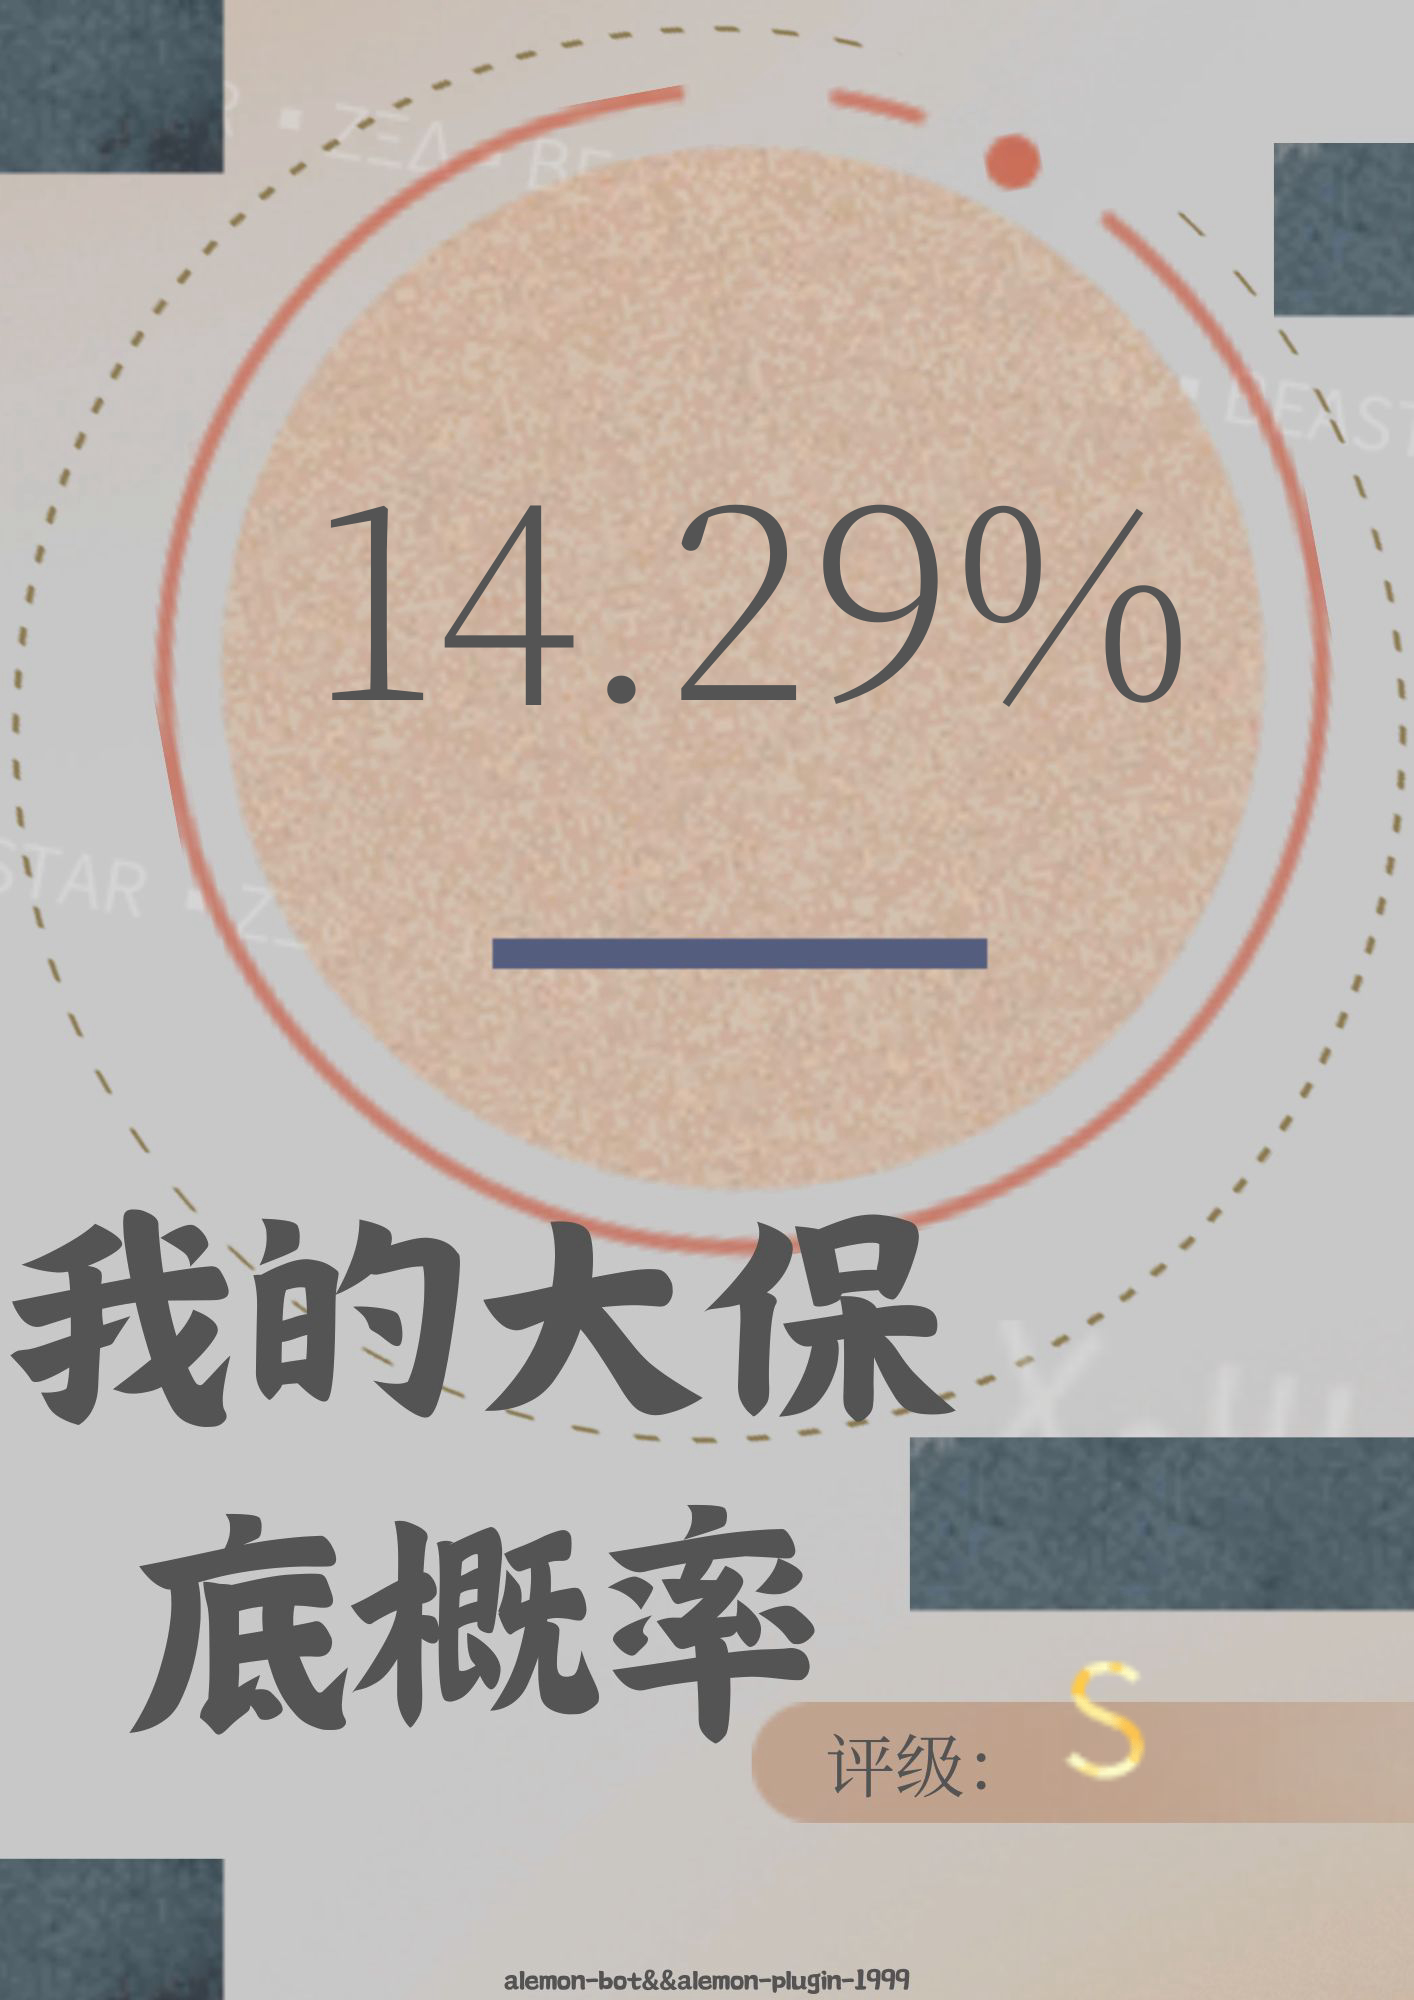
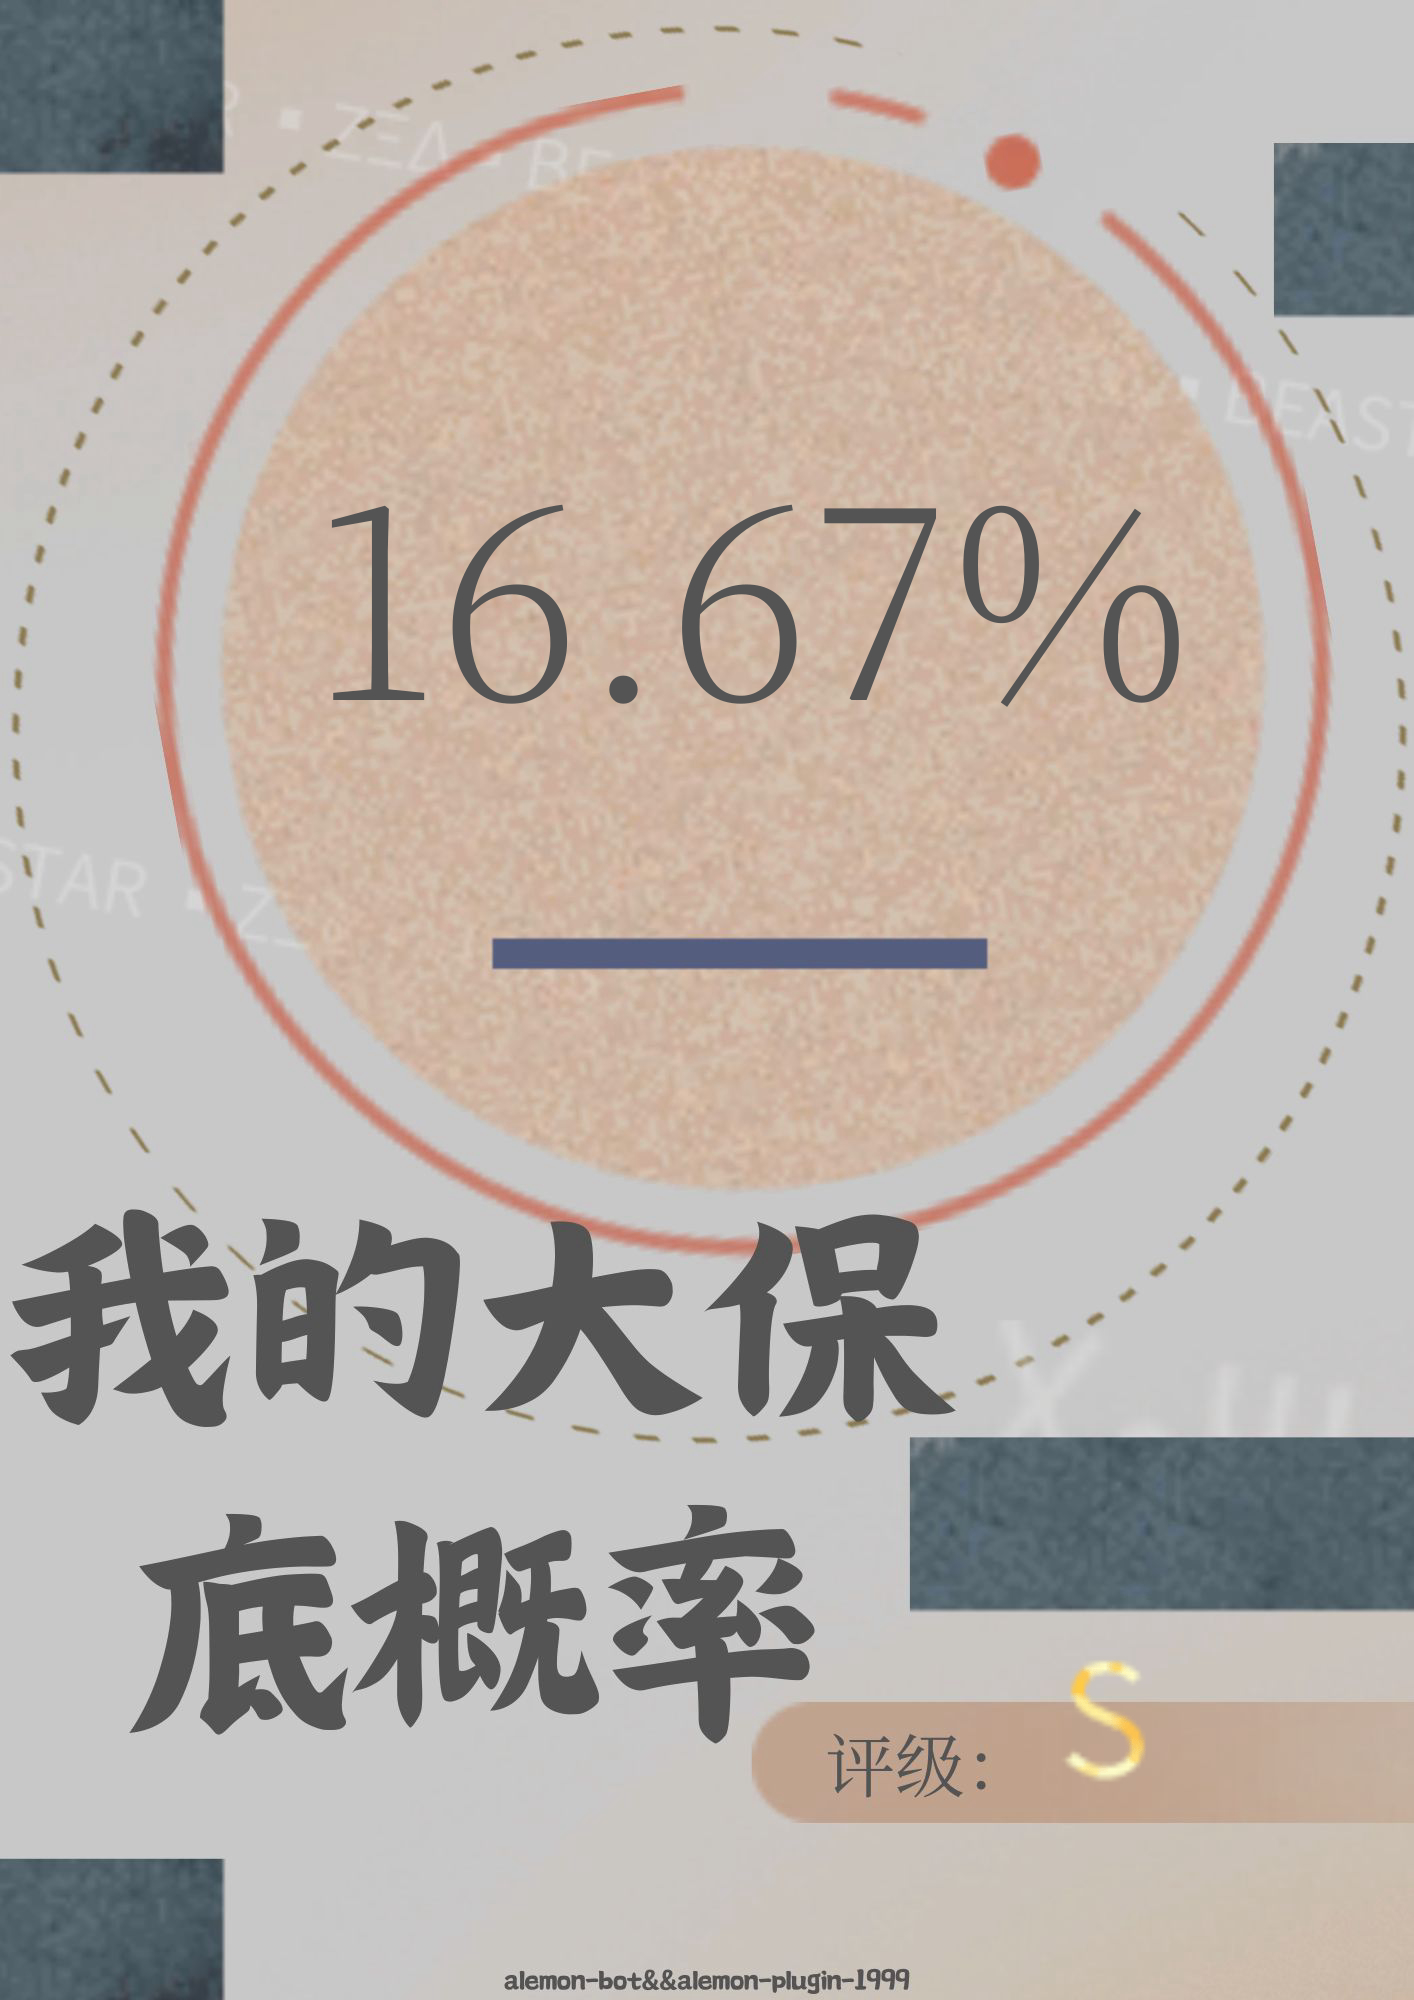
优化

diff --git a/apps/抽卡分析/大保底概率.ts b/apps/抽卡分析/大保底概率.ts
@@ -99,13 +99,54 @@ export class fenxichouka1 extends plugin {
           sixStarPullsOverall += sixStarPullsInPool
           misfitPullsOverall += misfitPullsInPool
         }
-      })
 
-      // 输出总概率
-      const overallSixStarProbability = (sixStarPullsOverall / totalPullsOverall) * 100
-      const overallMisfitProbability = (misfitPullsOverall / sixStarPullsOverall) * 100
+        // 歪卡数量和不歪卡数量的初始化
+        let misfitCount = 0
+        let notMisfitCount = 0
 
-      /*
+        // 判断首尾六星是否歪了
+        const firstPull = file2Data[0].results[0]
+        const lastPull = file2Data[file2Data.length - 1].results[0]
+        const specialSixStar = 0
+        const isFirstMisfit = firstPull.includes('6星') && !firstPull.includes(specialSixStar)
+        const isLastMisfit = lastPull.includes('6星') && !lastPull.includes(specialSixStar)
+
+        // 统计歪卡数量和不歪卡数量
+        Object.keys(poolStats).forEach(poolName => {
+          const { sixStarPulls, misfitPulls } = poolStats[poolName]
+          misfitCount += misfitPulls
+          notMisfitCount += sixStarPulls - misfitPulls
+        })
+        // 根据不同情况计算歪卡的概率
+        let overallMisfitProbability = 0
+        if (isFirstMisfit && isLastMisfit) {
+          if (misfitCount <= notMisfitCount) {
+            overallMisfitProbability = misfitCount / (sixStarPullsOverall - misfitCount + 1)
+          } else {
+            overallMisfitProbability = 1
+          }
+        } else if (isFirstMisfit && !isLastMisfit) {
+          if (misfitCount < notMisfitCount) {
+            overallMisfitProbability = misfitCount / (sixStarPullsOverall - misfitCount)
+          } else {
+            overallMisfitProbability = 1
+          }
+        } else if (!isFirstMisfit && isLastMisfit) {
+          if (misfitCount < notMisfitCount) {
+            overallMisfitProbability = misfitCount / (sixStarPullsOverall - misfitCount)
+          }
+        } else {
+          if (misfitCount < notMisfitCount || misfitCount > notMisfitCount) {
+            overallMisfitProbability = misfitCount / (sixStarPullsOverall - misfitCount)
+          } else {
+            overallMisfitProbability = 1
+          }
+        }
+
+        // 歪卡的概率
+        overallMisfitProbability *= 100
+
+        /*
 
 
 大保底概率图片合成
@@ -113,147 +154,148 @@ export class fenxichouka1 extends plugin {
 
       */
 
-      async function generateTextImage(text, ttffontPath, width, height) {
-        const canvas = createCanvas(width, height)
-        const ctx = canvas.getContext('2d')
+        async function generateTextImage(text, ttffontPath, width, height) {
+          const canvas = createCanvas(width, height)
+          const ctx = canvas.getContext('2d')
 
-        // 注册外部字体
-        registerFont(ttffontPath, { family: 'MyFont' })
+          // 注册外部字体
+          registerFont(ttffontPath, { family: 'MyFont' })
 
-        // 绘制文字
-        ctx.font = '264.67px MyFont'
-        ctx.fillStyle = '#545454'
-        ctx.textAlign = 'center' // 居中对齐文本
-        ctx.fillText(text, width / 2, height / 2)
+          // 绘制文字
+          ctx.font = '264.67px MyFont'
+          ctx.fillStyle = '#545454'
+          ctx.textAlign = 'center' // 居中对齐文本
+          ctx.fillText(text, width / 2, height / 2)
 
-        // 将Canvas生成的Buffer转换为Node.js的Buffer类型
-        const buffer = canvas.toBuffer()
+          // 将Canvas生成的Buffer转换为Node.js的Buffer类型
+          const buffer = canvas.toBuffer()
 
-        return buffer
-      }
-
-      async function selectGradeImage(overallMisfitProbability) {
-        // 映射表，将大保底概率范围与对应的图片路径进行关联
-        const gradeImageMap = {
-          'SS': 'SS.png',
-          'S': 'S.png',
-          'A+': 'A+.png',
-          'A': 'A.png',
-          'B+': 'B+.png',
-          'B': 'B.png',
-          'C+': 'C+.png',
-          'C': 'C.png'
+          return buffer
         }
 
-        let gradeImage
-        if (overallMisfitProbability >= 0 && overallMisfitProbability < 10) {
-          gradeImage = gradeImageMap['SS']
-        } else if (overallMisfitProbability >= 10 && overallMisfitProbability < 20) {
-          gradeImage = gradeImageMap['S']
-        } else if (overallMisfitProbability >= 20 && overallMisfitProbability < 30) {
-          gradeImage = gradeImageMap['A+']
-        } else if (overallMisfitProbability >= 30 && overallMisfitProbability < 40) {
-          gradeImage = gradeImageMap['A']
-        } else if (overallMisfitProbability >= 40 && overallMisfitProbability < 50) {
-          gradeImage = gradeImageMap['B+']
-        } else if (overallMisfitProbability >= 50 && overallMisfitProbability < 60) {
-          gradeImage = gradeImageMap['B']
-        } else if (overallMisfitProbability >= 60 && overallMisfitProbability < 70) {
-          gradeImage = gradeImageMap['C+']
-        } else if (overallMisfitProbability >= 70 && overallMisfitProbability < 100) {
-          gradeImage = gradeImageMap['C']
-        } else {
-          // 默认情况，当大保底概率超出映射表的范围时，默认为C.png
-          gradeImage = gradeImageMap['C']
-        }
-        return gradeImage
-      }
+        async function selectGradeImage(overallMisfitProbability) {
+          // 映射表，将大保底概率范围与对应的图片路径进行关联
+          const gradeImageMap = {
+            'SS': 'SS.png',
+            'S': 'S.png',
+            'A+': 'A+.png',
+            'A': 'A.png',
+            'B+': 'B+.png',
+            'B': 'B.png',
+            'C+': 'C+.png',
+            'C': 'C.png'
+          }
 
-      async function addTextAndSpecialImagesToBackground(
-        text,
-        backgroundImagePath,
-        fontPath,
-        outputImagePath
-      ) {
-        try {
-          // 使用 Jimp 读取背景图片
-          const backgroundImage = await jimp.read(backgroundImagePath)
-          // 根据大保底概率选择合适的图片路径
-          const gradeImageFileName = await selectGradeImage(overallMisfitProbability)
-          const gradeImagePath = path.join(
+          let gradeImage
+          if (overallMisfitProbability >= 0 && overallMisfitProbability < 10) {
+            gradeImage = gradeImageMap['SS']
+          } else if (overallMisfitProbability >= 10 && overallMisfitProbability < 20) {
+            gradeImage = gradeImageMap['S']
+          } else if (overallMisfitProbability >= 20 && overallMisfitProbability < 30) {
+            gradeImage = gradeImageMap['A+']
+          } else if (overallMisfitProbability >= 30 && overallMisfitProbability < 40) {
+            gradeImage = gradeImageMap['A']
+          } else if (overallMisfitProbability >= 40 && overallMisfitProbability < 50) {
+            gradeImage = gradeImageMap['B+']
+          } else if (overallMisfitProbability >= 50 && overallMisfitProbability < 60) {
+            gradeImage = gradeImageMap['B']
+          } else if (overallMisfitProbability >= 60 && overallMisfitProbability < 70) {
+            gradeImage = gradeImageMap['C+']
+          } else if (overallMisfitProbability >= 70 && overallMisfitProbability < 100) {
+            gradeImage = gradeImageMap['C']
+          } else {
+            // 默认情况，当大保底概率超出映射表的范围时，默认为C.png
+            gradeImage = gradeImageMap['C']
+          }
+          return gradeImage
+        }
+
+        async function addTextAndSpecialImagesToBackground(
+          text,
+          backgroundImagePath,
+          fontPath,
+          outputImagePath
+        ) {
+          try {
+            // 使用 Jimp 读取背景图片
+            const backgroundImage = await jimp.read(backgroundImagePath)
+            // 根据大保底概率选择合适的图片路径
+            const gradeImageFileName = await selectGradeImage(overallMisfitProbability)
+            const gradeImagePath = path.join(
+              `${process
+                .cwd()
+                .replace(
+                  /\\/g,
+                  '/'
+                )}/plugins/alemon-plugin-1999/resources/assets/img/抽卡分析/大保底/评级`,
+              gradeImageFileName
+            )
+
+            // 使用 Jimp 读取评级图片
+            const gradeImage = await jimp.read(gradeImagePath)
+
+            // 设置评级图片的合成位置
+            const gradeImageX = 966.2 // 替换为评级图片在背景图片上的 X 坐标
+            const gradeImageY = 1583.7 // 替换为评级图片在背景图片上的 Y 坐标
+
+            // 将评级图片合成在背景图片上
+            backgroundImage.composite(gradeImage, gradeImageX, gradeImageY)
+
+            // 生成包含文字的图片
+            const textImageBuffer = await generateTextImage(text, ttffontPath, 1069, 400)
+
+            // 使用 Jimp 读取文字图片
+            const textImage = await jimp.read(textImageBuffer)
+
+            // 设置文字图片的合成位置
+            const textImageX = 217 // 替换为文字图片在背景图片上的 X 坐标
+            const textImageY = 500 // 替换为文字图片在背景图片上的 Y 坐标
+
+            // 将文字图片合成在背景图片上
+            backgroundImage.composite(textImage, textImageX, textImageY)
+
+            // 保存合成后的图片
+            await backgroundImage.writeAsync(outputImagePath)
+            console.log('图片合成成功！')
+          } catch (error) {
+            console.error('图片合成失败：', error)
+          }
+          e.sendImage(
             `${process
               .cwd()
               .replace(
                 /\\/g,
                 '/'
-              )}/plugins/alemon-plugin-1999/resources/assets/img/抽卡分析/大保底/评级`,
-            gradeImageFileName
+              )}/plugins/alemon-plugin-1999/resources/assets/img/抽卡分析/大保底/baodi.jpg`
           )
-
-          // 使用 Jimp 读取评级图片
-          const gradeImage = await jimp.read(gradeImagePath)
-
-          // 设置评级图片的合成位置
-          const gradeImageX = 966.2 // 替换为评级图片在背景图片上的 X 坐标
-          const gradeImageY = 1583.7 // 替换为评级图片在背景图片上的 Y 坐标
-
-          // 将评级图片合成在背景图片上
-          backgroundImage.composite(gradeImage, gradeImageX, gradeImageY)
-
-          // 生成包含文字的图片
-          const textImageBuffer = await generateTextImage(text, ttffontPath, 1069, 400)
-
-          // 使用 Jimp 读取文字图片
-          const textImage = await jimp.read(textImageBuffer)
-
-          // 设置文字图片的合成位置
-          const textImageX = 217 // 替换为文字图片在背景图片上的 X 坐标
-          const textImageY = 500 // 替换为文字图片在背景图片上的 Y 坐标
-
-          // 将文字图片合成在背景图片上
-          backgroundImage.composite(textImage, textImageX, textImageY)
-
-          // 保存合成后的图片
-          await backgroundImage.writeAsync(outputImagePath)
-          console.log('图片合成成功！')
-        } catch (error) {
-          console.error('图片合成失败：', error)
         }
-        e.sendImage(
-          `${process
-            .cwd()
-            .replace(
-              /\\/g,
-              '/'
-            )}/plugins/alemon-plugin-1999/resources/assets/img/抽卡分析/大保底/baodi.jpg`
+        // 在图片上添加大保底概率文本并保存图片
+        const textToPrint = `${overallMisfitProbability.toFixed(2)}%`
+        const backgroundImagePath = `${process
+          .cwd()
+          .replace(
+            /\\/g,
+            '/'
+          )}/plugins/alemon-plugin-1999/resources/assets/img/抽卡分析/大保底/dbd.jpg` // 替换为背景图片路径
+        const ttffontPath = `${process
+          .cwd()
+          .replace(
+            /\\/g,
+            '/'
+          )}/plugins/alemon-plugin-1999/resources/assets/ttf/SourceHanSerifSC-VF.ttf` // 替换为外部字体文件的路径
+        const outputImagePath = `${process
+          .cwd()
+          .replace(
+            /\\/g,
+            '/'
+          )}/plugins/alemon-plugin-1999/resources/assets/img/抽卡分析/大保底/baodi.jpg`
+        addTextAndSpecialImagesToBackground(
+          textToPrint,
+          backgroundImagePath,
+          ttffontPath,
+          outputImagePath
         )
-      }
-      // 在图片上添加大保底概率文本并保存图片
-      const textToPrint = `${overallMisfitProbability.toFixed(2)}%`
-      const backgroundImagePath = `${process
-        .cwd()
-        .replace(
-          /\\/g,
-          '/'
-        )}/plugins/alemon-plugin-1999/resources/assets/img/抽卡分析/大保底/dbd.jpg` // 替换为背景图片路径
-      const ttffontPath = `${process
-        .cwd()
-        .replace(
-          /\\/g,
-          '/'
-        )}/plugins/alemon-plugin-1999/resources/assets/ttf/SourceHanSerifSC-VF.ttf` // 替换为外部字体文件的路径
-      const outputImagePath = `${process
-        .cwd()
-        .replace(
-          /\\/g,
-          '/'
-        )}/plugins/alemon-plugin-1999/resources/assets/img/抽卡分析/大保底/baodi.jpg`
-      addTextAndSpecialImagesToBackground(
-        textToPrint,
-        backgroundImagePath,
-        ttffontPath,
-        outputImagePath
-      )
+      })
     }
   }
 }
